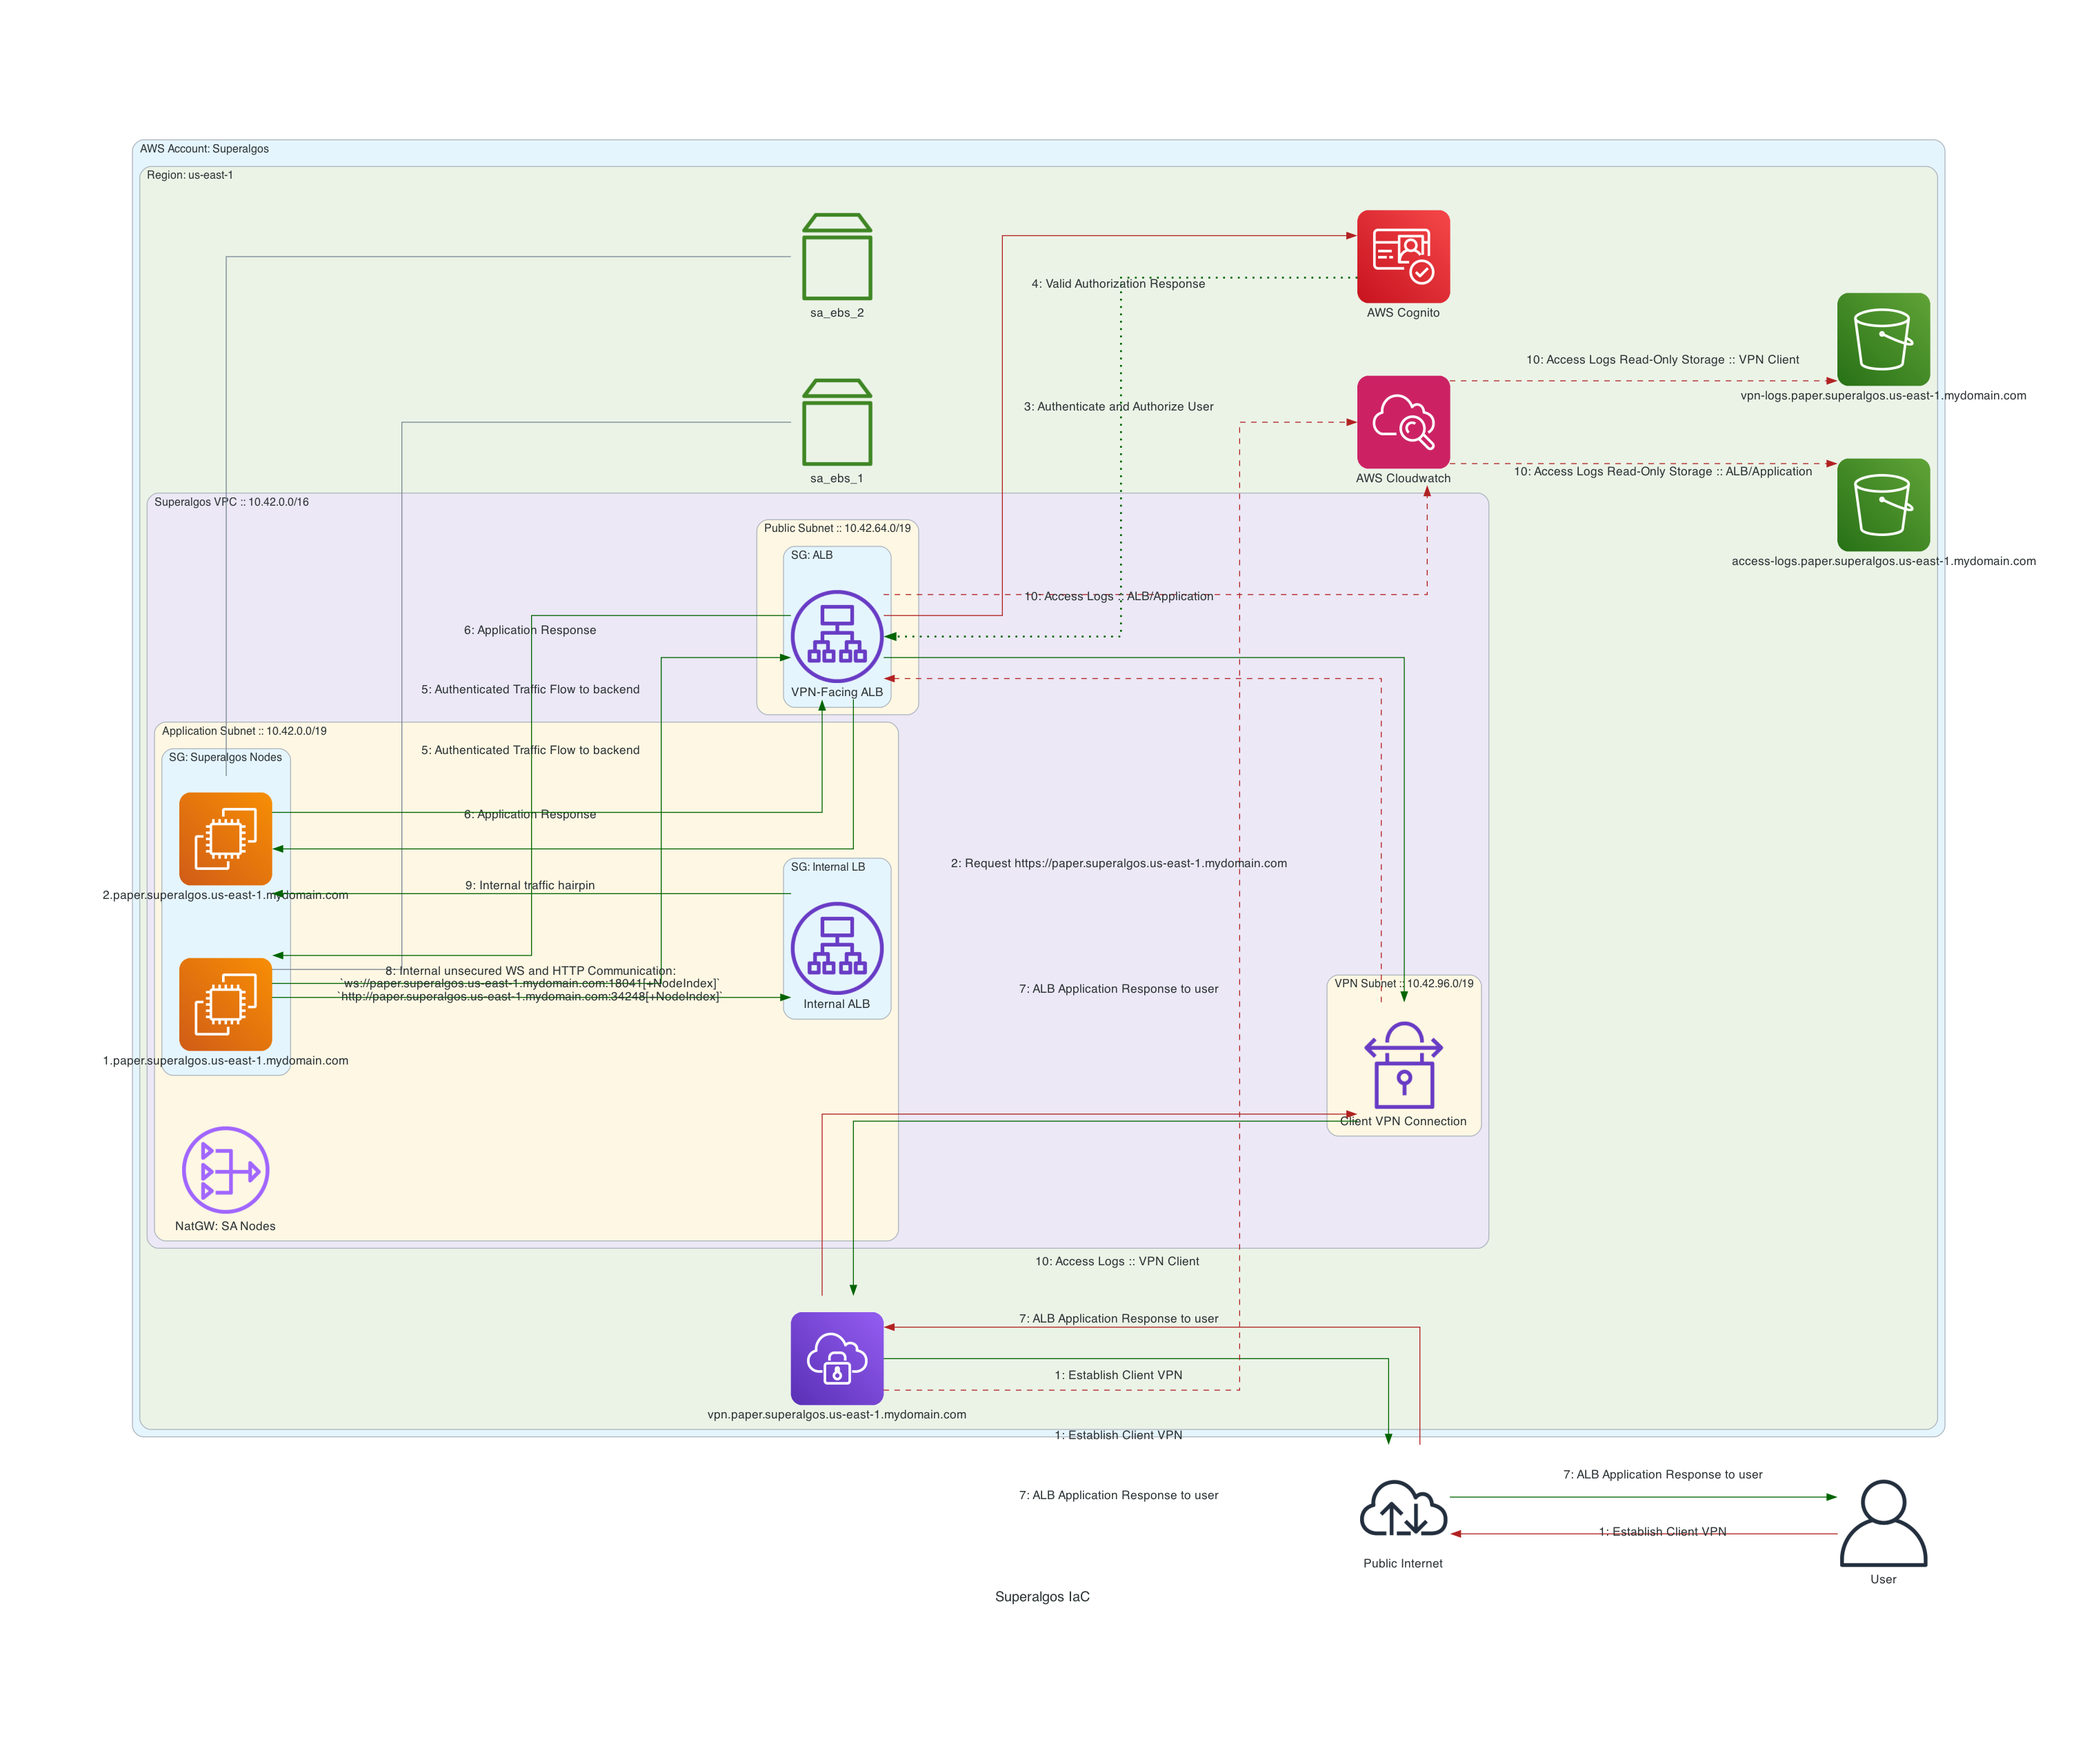
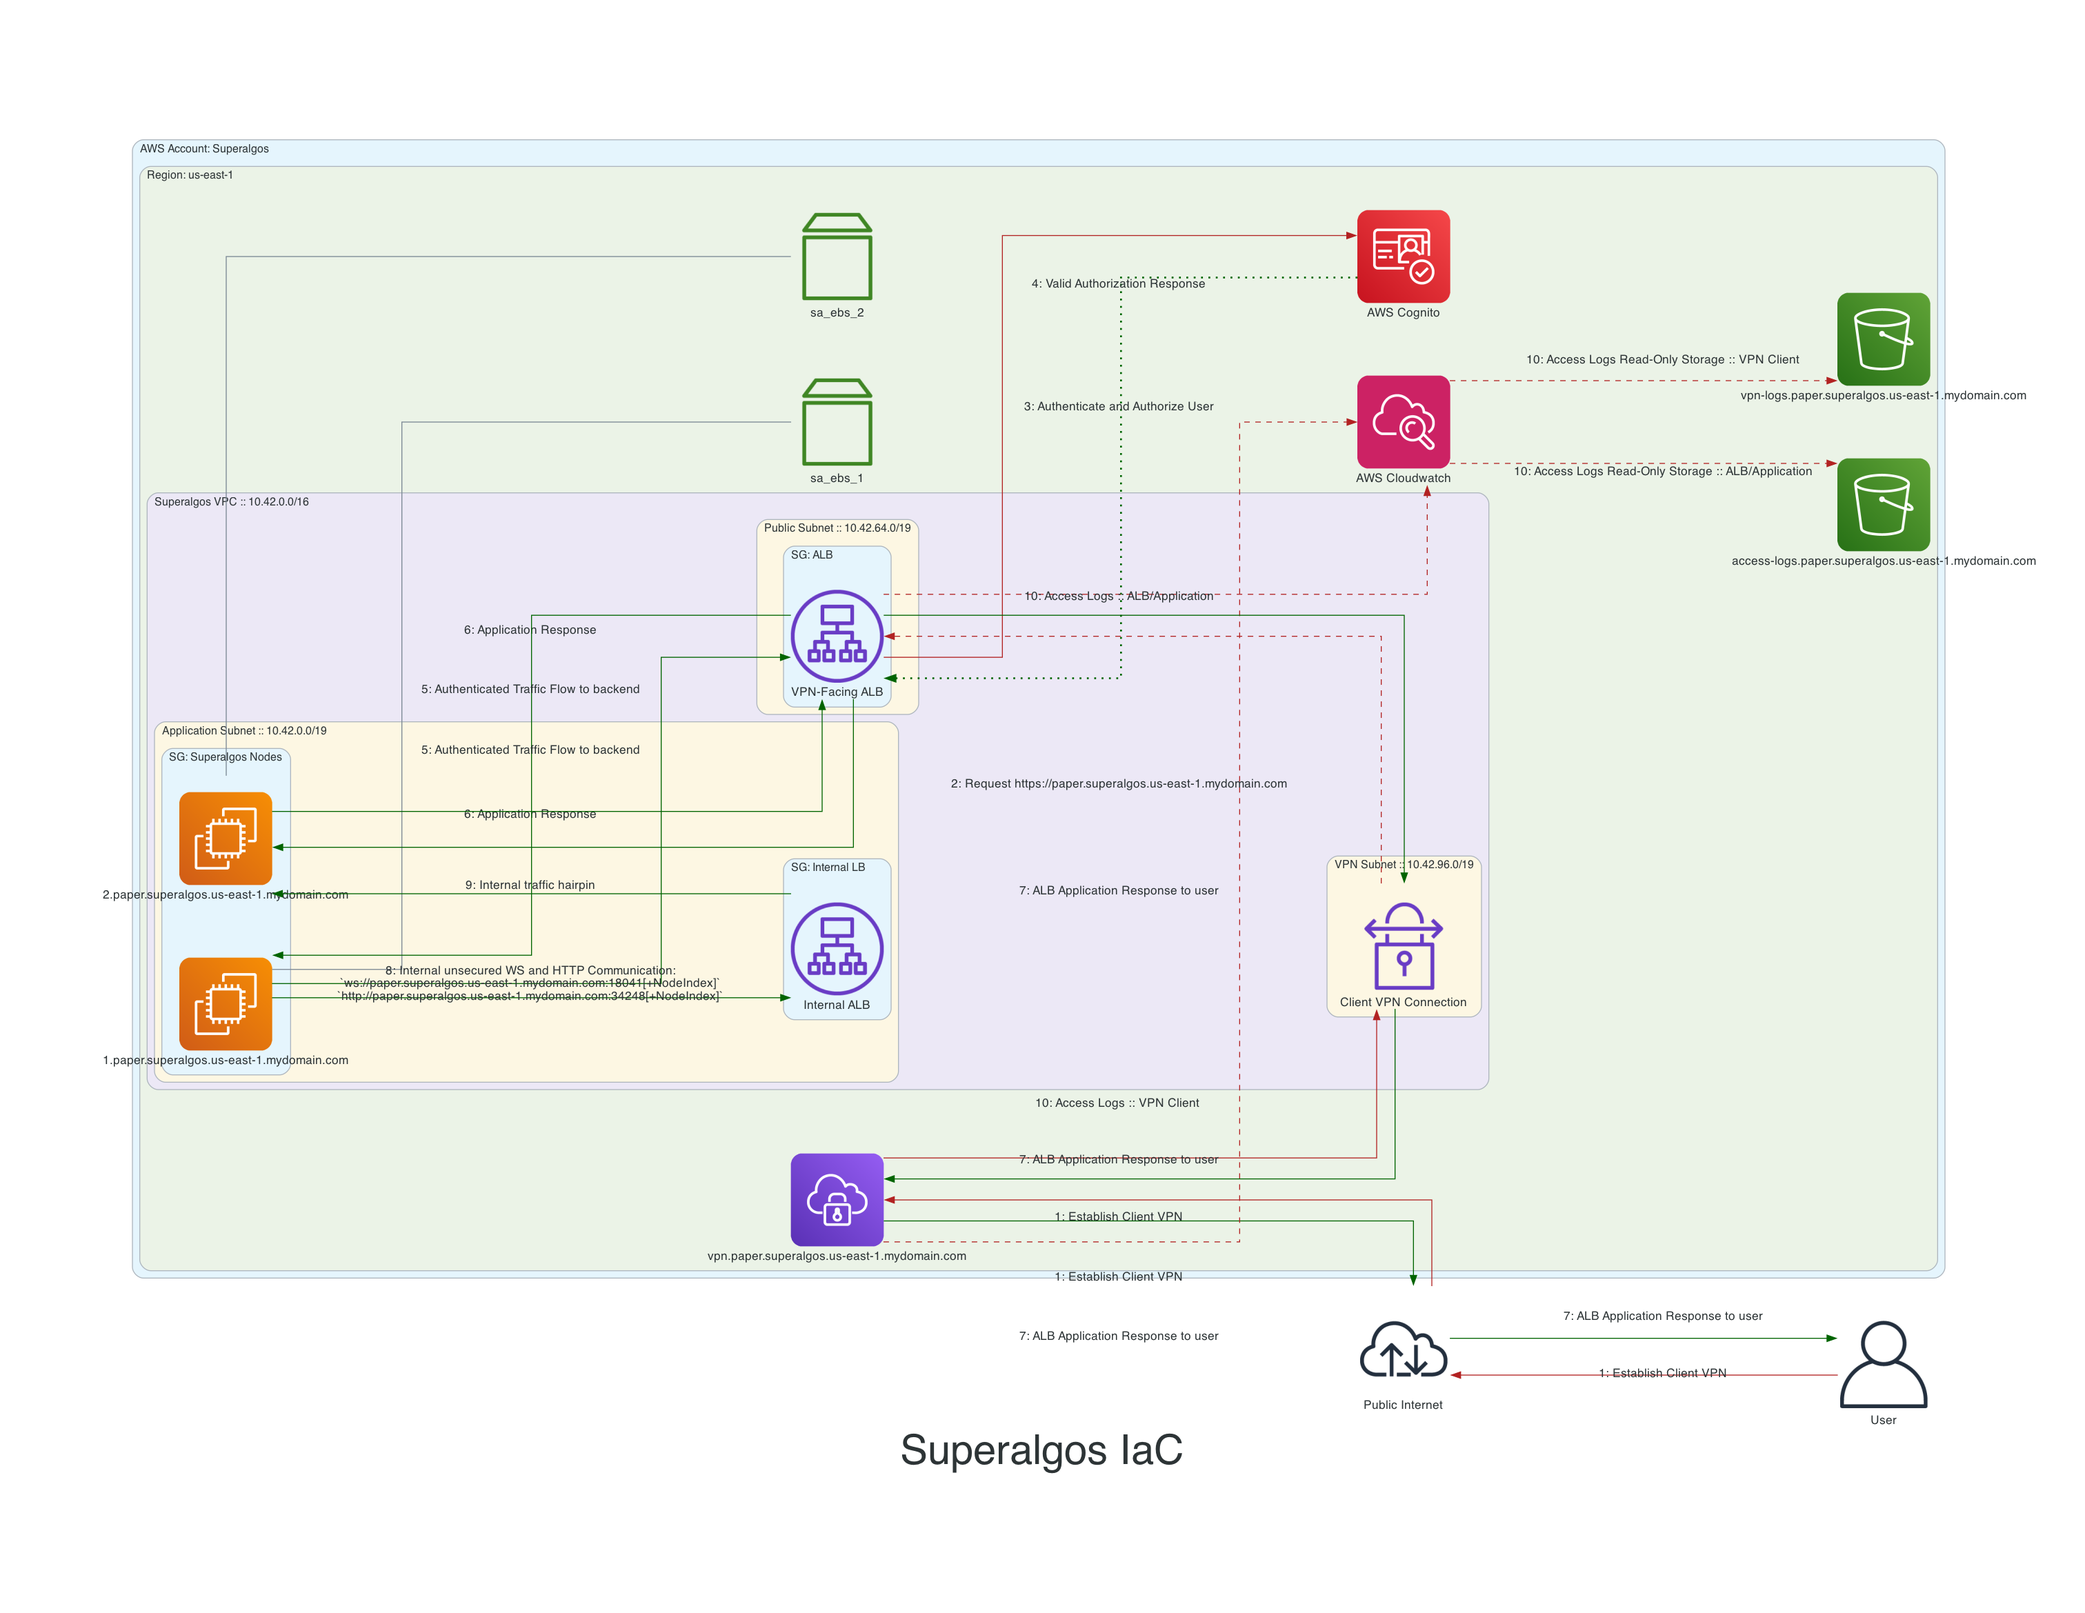
fixed graph error

diff --git a/scripts/diagram.py b/scripts/diagram.py
@@ -130,11 +130,21 @@ def solidRed(label="", color="firebrick", style="solid"):
     return Edge(label=label, color=color, style=style)
 
 
+#
+
+def awsAccount(elements):
+    graph_attrs = {
+        "fontsize": 30
+    }
+    elements["aws_account_cluster"] = Cluster(f"AWS Account: {aws_account_alias}")
+    elements["internet"] = Internet("Public Internet")
+    elements["user"] = User("User")
+
 
 #
 
-def authTrafficFlow(environment, region, fqdn, out_dir: str = '.'):
-    with Diagram("Superalgos IaC", filename=f"{out_dir}/diagram-authentication-{environment}-{region}", outformat="png", show=False):
+def authTrafficFlow(environment, region, fqdn, out_dir: str = '.', graph_attr = {}):
+    with Diagram("Superalgos IaC", filename=f"{out_dir}/diagram-authentication-{environment}-{region}", outformat="png", show=False, graph_attr=graph_attr):
         elements = {}
         authTrafficInfrastructure(elements=elements, region=region, fqdn=fqdn)
         # User -> Application traffic flow
@@ -158,10 +168,10 @@ def authTrafficFlow(environment, region, fqdn, out_dir: str = '.'):
         
 
 
+
+
 def authTrafficInfrastructure(elements, region, fqdn):
-    elements["aws_account_cluster"] = Cluster(f"AWS Account: {aws_account_alias}")
-    elements["internet"] = Internet("Public Internet")
-    elements["user"] = User("User")
+    awsAccount(elements)
     with elements["aws_account_cluster"]:
         elements["region"] = Cluster(f"Region: {region}")
         with elements["region"]:
@@ -183,7 +193,6 @@ def authTrafficInfrastructure(elements, region, fqdn):
                         elements["external_lb"] = ALB("VPN-Facing ALB")
                 # Application Subnet Object
                 with elements["subnet_application"]:
-                    elements["ngw_sa_nodes"] = NATGateway("NatGW: SA Nodes")
                     elements["sg_sa_nodes"] = Cluster("SG: Superalgos Nodes")
                     elements["sg_internal_lb"] = Cluster("SG: Internal LB")
                     # SG: Internal LB Object
@@ -203,8 +212,8 @@ def authTrafficInfrastructure(elements, region, fqdn):
                 elements["app_instances"][idx] - ElasticBlockStoreEBSVolume(f"sa_ebs_{i.get('idx')}")
 
 
-def managementTrafficFlow(environment, region, fqdn, out_dir: str = '.'):
-    with Diagram("Superalgos IaC - Management Traffic", filename=f"{out_dir}/diagram-management-{environment}-{region}", outformat="png", show=False):
+def managementTrafficFlow(environment, region, fqdn, out_dir: str = '.', graph_attr = {}):
+    with Diagram("Superalgos IaC - Management Traffic", filename=f"{out_dir}/diagram-management-{environment}-{region}", outformat="png", show=False, graph_attr=graph_attr):
         elements = {}
         managementInfrastructure(elements=elements, region=region, fqdn=fqdn)
         # User -> SSH Managment traffic flow
@@ -222,10 +231,7 @@ def managementTrafficFlow(environment, region, fqdn, out_dir: str = '.'):
 
 
 def managementInfrastructure(elements, region, fqdn):
-    elements["aws_account_cluster"] = Cluster(f"AWS Account: {aws_account_alias}")
-    elements["internet"] = Internet("Public Internet")
-    elements["user"] = User("User")
-
+    awsAccount(elements)
     with elements["aws_account_cluster"]:
         elements["region"] = Cluster(f"Region: {region}")
         with elements["region"]:
@@ -274,16 +280,19 @@ def managementInfrastructure(elements, region, fqdn):
 
 
 def makeDiagrams(out_dir: str = '.'):
+    graph_attr = {
+        "fontsize": "45",
+    }
     for environment, region in zip(environments, regions):
         # The fully qualified domain name that will be appended
         fqdn = f"{environment}.{sa_subdomain}.{region}.{sa_TLD}"
         # ################
         # Overview Diagram
         # ################
-        authTrafficFlow(environment=environment, region=region, fqdn=fqdn, out_dir=out_dir)
+        authTrafficFlow(environment=environment, region=region, fqdn=fqdn, out_dir=out_dir, graph_attr=graph_attr)
 
         # Management Traffic
-        managementTrafficFlow(environment=environment, region=region, fqdn=fqdn, out_dir=out_dir)
+        managementTrafficFlow(environment=environment, region=region, fqdn=fqdn, out_dir=out_dir, graph_attr=graph_attr)
     
     
 
